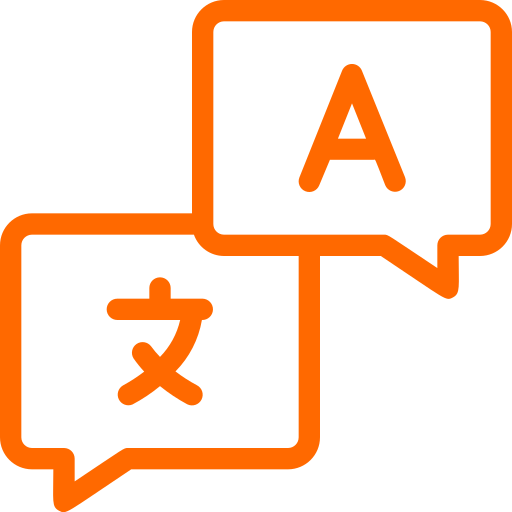
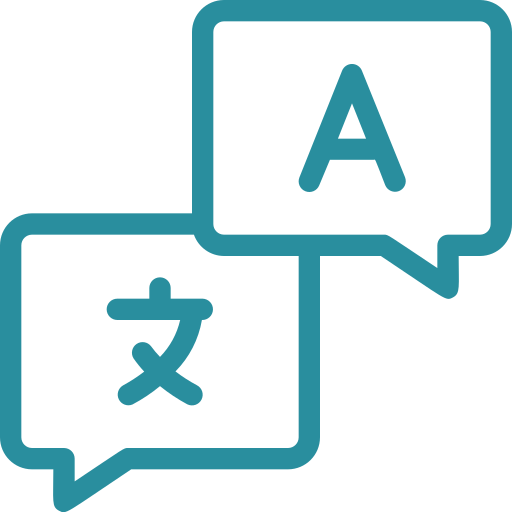
change color pallet

Changed region(s): [[0.0, 0.0, 1.0, 1.0], [0.1875, 0.5312, 0.4375, 0.8125], [0.5625, 0.125, 0.8125, 0.375]]

diff --git a/src/layouts/Hero.jsx b/src/layouts/Hero.jsx
@@ -1,20 +1,20 @@
 import { motion } from "framer-motion";
 import Button from "../components/Button";
-import heroImage from "../assets/hero.jpeg";
+import myImage from "../assets/my-photo.jpeg";
 import { ChevronDown } from "lucide-react"; // Ícone de seta
 
 const Hero = ({ onContatoClick }) => {
   return (
     <section
       id="hero"
-      className="bg-gradient-to-br from-orange-100 to-white flex flex-col justify-center px-6 md:px-12 relative"
+      className="bg-[var(--light-bg)] flex flex-col justify-center px-6 md:px-12 relative"
       style={{ minHeight: "calc(100vh - 80px)" }}
     >
       <motion.div
         className="max-w-7xl mx-auto flex flex-col md:flex-row items-center gap-12 py-12"
         initial={{ opacity: 0, y: 40 }}
         animate={{ opacity: 1, y: 0 }}
-        transition={{ duration: 0.8, ease: "easeOut" }}
+        transition={{ duration: 2, ease: "easeOut" }}
       >
         {/* Imagem */}
         <motion.div
@@ -25,7 +25,7 @@ const Hero = ({ onContatoClick }) => {
           viewport={{ once: true }}
         >
           <img
-            src={heroImage}
+            src={myImage}
             alt="Tradução e suporte no Japão"
             className="rounded-2xl shadow-md object-cover w-full max-w-md h-auto"
             style={{ maxHeight: "450px" }}
@@ -34,23 +34,23 @@ const Hero = ({ onContatoClick }) => {
 
         {/* Texto */}
         <motion.div
-          className="w-full md:w-1/2 text-gray-800"
+          className="w-full md:w-1/2"
           initial={{ opacity: 0, x: 30 }}
           whileInView={{ opacity: 1, x: 0 }}
           transition={{ duration: 0.6 }}
           viewport={{ once: true }}
         >
-            <h1 className="text-4xl md:text-5xl font-bold mb-6 leading-tight">
+            <h1 className="text-4xl text-gray-800 md:text-5xl font-bold mb-6 leading-tight">
             Quebre a barreira do idioma no Japão
             </h1>
 
             <p className="text-lg md:text-xl text-gray-700 mb-6 leading-relaxed">
-            Olá! Me chamo <strong className="text-orange-600">Lucas Catuyama</strong> e ofereço tradução profissional e acompanhamento presencial para brasileiros que vivem no Japão. 
+            Olá! Me chamo <strong className="text-yellow-600">Lucas Catuyama</strong> e ofereço tradução profissional e acompanhamento presencial para brasileiros que vivem no Japão. 
             Conte com apoio em hospitais, prefeituras e qualquer situação em que a comunicação clara seja essencial.
             </p>
 
-            <p className="text-md md:text-lg text-gray-600 mb-8">
-            Atendimento humano, rápido e com empatia. A primeira ligação é <strong className="text-green-600">gratuita</strong> e sem compromisso.
+            <p className="text-lg md:text-xl text-gray-700 mb-6">
+            Atendimento humano, rápido e com empatia. A primeira ligação é <strong className="text-[var(--text-dark-blue)]">gratuita</strong> e sem compromisso.
             </p>
           <Button onClick={onContatoClick}>Fale comigo agora</Button>
         </motion.div>
@@ -58,7 +58,7 @@ const Hero = ({ onContatoClick }) => {
 
       {/* Scroll cue - seta animada */}
       <motion.div
-        className="absolute bottom-4 left-1/2 transform -translate-x-1/2 text-orange-400 cursor-pointer"
+        className="absolute bottom-4 left-1/2 transform -translate-x-1/2 text-[var(--button-blue)] cursor-pointer"
         animate={{ y: [0, 10, 0] }}
         transition={{ duration: 1.5, repeat: Infinity }}
         onClick={() => {

diff --git a/src/layouts/Header.jsx b/src/layouts/Header.jsx
@@ -25,19 +25,19 @@ const Header = ({ onContatoClick }) => {
 
   return (
     <header
-      className={`fixed top-0 left-0 w-full bg-white shadow-md z-50 transition-transform duration-300 ${
+      className={`fixed top-0 left-0 w-full bg-[var(--light-bg)] z-50 transition-transform duration-300 ${
         showHeader ? 'translate-y-0' : '-translate-y-full'
       }`}
     >
       <div className="max-w-7xl mx-auto px-4 py-4 flex flex-col gap-4 sm:flex-row sm:items-center sm:justify-between">
         {/* Logo e botão do menu */}
         <div className="flex items-center justify-between">
-          <h1 className="text-2xl font-bold text-gray-800">
+          <h1 className="text-2xl font-bold text-gray-700">
             Tradução em Izumo
           </h1>
     
           <button
-            className="sm:hidden text-gray-800 text-3xl focus:outline-none"
+            className="sm:hidden text-gray-700 text-3xl focus:outline-none"
             onClick={() => setMenuOpen(!menuOpen)}
           >
             ☰
@@ -50,19 +50,19 @@ const Header = ({ onContatoClick }) => {
             menuOpen ? 'flex' : 'hidden'
           } flex-col sm:flex sm:flex-row sm:items-center sm:space-x-6`}
         >
-          <a href="#hero" className="text-gray-600 hover:text-orange-500 transition-colors">
+          <a href="#hero" className="text-gray-700 hover:text-[var(--button-blue)] transition-colors">
             Início
           </a>
-          <a href="#services" className="text-gray-600 hover:text-orange-500 transition-colors">
+          <a href="#services" className="text-gray-700 hover:text-[var(--button-blue)] transition-colors">
             Serviços
           </a>
-          <a href="#about" className="text-gray-600 hover:text-orange-500 transition-colors">
+          <a href="#about" className="text-gray-700 hover:text-[var(--button-blue)] transition-colors">
             Sobre mim
           </a>
-          <a href="#testimonial" className="text-gray-600 hover:text-orange-500 transition-colors">
+          <a href="#testimonial" className="text-gray-700 hover:text-[var(--button-blue)] transition-colors">
             Depoimentos
           </a>
-          <a href="#price" className="text-gray-600 hover:text-orange-500 transition-colors">
+          <a href="#price" className="text-gray-700 hover:text-[var(--button-blue)] transition-colors">
             Preços
           </a>
           <Button onClick={onContatoClick}>Entre em contato</Button>

diff --git a/src/layouts/Reason.jsx b/src/layouts/Reason.jsx
@@ -3,32 +3,32 @@ import { BadgeCheck, Languages, School, BookOpen, Code, Heart } from "lucide-rea
 
 const motivos = [
   {
-    icon: <Languages className="w-8 h-8 text-orange-400" />,
+    icon: <Languages className="w-8 h-8 text-[var(--button-blue)]" />,
     title: "Fluência em Japonês",
     description: "Certificação JLPT N1 e domínio completo do idioma.",
   },
   {
-    icon: <School className="w-8 h-8 text-orange-400" />,
+    icon: <School className="w-8 h-8 text-[var(--button-blue)]" />,
     title: "Vivência no Japão",
     description: "Fui alfabetizado e estudei no Japão, com conhecimento cultural profundo.",
   },
   {
-    icon: <BookOpen className="w-8 h-8 text-orange-400" />,
+    icon: <BookOpen className="w-8 h-8 text-[var(--button-blue)]" />,
     title: "Formação Acadêmica",
     description: "Graduado em Administração e cursando Engenharia de Software.",
   },
   {
-    icon: <BadgeCheck className="w-8 h-8 text-orange-400" />,
+    icon: <BadgeCheck className="w-8 h-8 text-[var(--button-blue)]" />,
     title: "Experiência como Professor",
     description: "Já atuei como professor de japonês com foco em clareza e didática.",
   },
   {
-    icon: <Code className="w-8 h-8 text-orange-400" />,
+    icon: <Code className="w-8 h-8 text-[var(--button-blue)]" />,
     title: "Tradutor com visão técnica",
     description: "Experiência em tradução com sensibilidade linguística e precisão.",
   },
   {
-    icon: <Heart className="w-8 h-8 text-orange-400" />,
+    icon: <Heart className="w-8 h-8 text-[var(--button-blue)]" />,
     title: "Atendimento Humanizado",
     description: "Empatia, paciência e compromisso em cada atendimento, pensando no bem-estar do cliente.",
   },
@@ -51,7 +51,7 @@ const Reason = () => {
           {motivos.map((item, index) => (
             <motion.div
               key={index}
-              className="bg-gray-50 p-6 rounded-2xl shadow hover:shadow-lg transition duration-300"
+              className="bg-[var(--light-bg)] p-6 rounded-2xl shadow hover:shadow-lg transition duration-300"
               initial={{ opacity: 0, y: 40 }}
               whileInView={{ opacity: 1, y: 0 }}
               transition={{ duration: 0.4, delay: index * 0.1 }}

diff --git a/src/layouts/About.jsx b/src/layouts/About.jsx
@@ -3,22 +3,22 @@ import { BookOpen, GraduationCap, Languages, Briefcase } from "lucide-react";
 
 const steps = [
   {
-    icon: <Languages className="w-6 h-6 text-orange-400" />,
+    icon: <Languages className="w-6 h-6 text-white" />,
     title: "Alfabetização no Japão",
     text: "Estudei e fui alfabetizado no Japão, vivenciando a cultura e o idioma desde cedo.",
   },
   {
-    icon: <GraduationCap className="w-6 h-6 text-orange-400" />,
+    icon: <GraduationCap className="w-6 h-6 text-white" />,
     title: "Formação Acadêmica",
     text: "Sou graduado em Administração e atualmente curso Engenharia de Software no Brasil.",
   },
   {
-    icon: <BookOpen className="w-6 h-6 text-orange-400" />,
+    icon: <BookOpen className="w-6 h-6 text-white" />,
     title: "JLPT N1",
     text: "Alcancei a certificação máxima do japonês (N1), comprovando domínio avançado da língua.",
   },
   {
-    icon: <Briefcase className="w-6 h-6 text-orange-400" />,
+    icon: <Briefcase className="w-6 h-6 text-white" />,
     title: "Experiência Profissional",
     text: "Atuei como professor de japonês e também com tradução em diversos contextos.",
   },
@@ -26,7 +26,7 @@ const steps = [
 
 const About = () => {
   return (
-    <section id="about" className="bg-white py-16 px-6 md:px-12">
+    <section id="about" className="bg-[var(--light-bg)] py-16 px-6 md:px-12">
       <div className="max-w-4xl mx-auto">
         <motion.h2
           className="text-4xl font-bold mb-12 text-center text-gray-700"
@@ -48,7 +48,7 @@ const About = () => {
               transition={{ duration: 0.4, delay: index * 0.2 }}
               viewport={{ once: true }}
             >
-              <div className="bg-orange-100 p-3 rounded-full shadow">
+              <div className="bg-[var(--button-blue)] p-3 rounded-full shadow">
                 {step.icon}
               </div>
               <div>

diff --git a/src/layouts/Cta.jsx b/src/layouts/Cta.jsx
@@ -23,9 +23,9 @@ const pulseAnimation = {
 
 const Cta = ({ onContatoClick }) => {
   return (
-    <section className="relative bg-gradient-to-br from-orange-100 via-yellow-50 to-white py-24 px-6 md:px-12 overflow-hidden">
+    <section className="relative bg-[var(--light-bg)] py-24 px-6 md:px-10 overflow-hidden">
       <motion.div
-        className="relative z-10 max-w-3xl mx-auto text-center"
+        className="relative z-10 max-w-4xl mx-auto text-center"
         initial="hidden"
         whileInView="visible"
         viewport={{ once: true }}
@@ -35,19 +35,19 @@ const Cta = ({ onContatoClick }) => {
           variants={fadeIn}
           custom={0}
         >
-          Tradução humana, empática e eficiente.
+          Tradução humana, empática e eficiente
         </motion.h2>
 
         <motion.p
-          className="text-lg md:text-xl text-gray-600 mb-4"
+          className="text-lg md:text-xl text-gray-700 mb-4"
           variants={fadeIn}
           custom={1}
         >
-          Tenha apoio profissional em qualquer situação no Japão. Conte com um atendimento acolhedor, ágil e totalmente em português.
+          Tenha apoio profissional em qualquer situação no Japão.<br></br> Conte com um atendimento acolhedor, ágil e totalmente em português.
         </motion.p>
 
         <motion.p
-          className="text-md text-gray-500 mb-10"
+          className="text-md text-gray-600 mb-10"
           variants={fadeIn}
           custom={2}
         >

diff --git a/src/layouts/Service.jsx b/src/layouts/Service.jsx
@@ -3,17 +3,17 @@ import { Stethoscope, FileText, Landmark } from 'lucide-react';
 
 const services = [
   {
-    icon: <Stethoscope className="w-8 h-8 text-orange-400" />,
+    icon: <Stethoscope className="w-8 h-8 text-[var(--button-blue)]" />,
     title: 'Acompanhamento ao médico',
     description: 'Tradução e apoio durante consultas, exames e atendimentos hospitalares.',
   },
   {
-    icon: <Landmark className="w-8 h-8 text-orange-400" />,
+    icon: <Landmark className="w-8 h-8 text-[var(--button-blue)]" />,
     title: 'Acompanhamento a órgãos públicos',
     description: 'Apoio em prefeitura, imigração, correios e outros serviços públicos.',
   },
   {
-    icon: <FileText className="w-8 h-8 text-orange-400" />,
+    icon: <FileText className="w-8 h-8 text-[var(--button-blue)]" />,
     title: 'Tradução de documentos',
     description: 'Tradução de certificados, contratos, formulários e documentos oficiais.',
   },
@@ -37,7 +37,7 @@ const Service = () => {
           {services.map((service, index) => (
             <motion.div
               key={index}
-              className="bg-gray-50 p-6 rounded-2xl shadow hover:shadow-md transition duration-300"
+              className="bg-[var(--light-bg)] p-6 rounded-2xl shadow hover:shadow-md transition duration-300"
               initial={{ opacity: 0, y: 40 }}
               whileInView={{ opacity: 1, y: 0 }}
               transition={{ duration: 0.4, delay: index * 0.1 }}

diff --git a/src/layouts/Price.jsx b/src/layouts/Price.jsx
@@ -2,8 +2,8 @@ import { motion } from 'framer-motion';
 
 const Price = () => {
   return (
-    <section id="price" className="bg-gray-50 py-16 px-6 md:px-12">
-      <div className="max-w-3xl mx-auto text-center">
+    <section id="price" className="bg-white py-16 px-6 md:px-12">
+      <div className="max-w-3xl mx-auto text-center ">
         <motion.h2
           className="text-4xl font-bold mb-10 text-gray-700"
           initial={{ opacity: 0, y: -20 }}
@@ -22,13 +22,13 @@ const Price = () => {
           viewport={{ once: true }}
         >
           <p>
-            <strong className="text-orange-400 text-xl">¥3000</strong> pela primeira hora
+            <strong className="text-gray-700 text-xl">¥3000</strong> pela primeira hora
           </p>
           <p>
-            <strong className="text-orange-400 text-xl">¥1000</strong> por hora adicional
+            <strong className="text-gray-700 text-xl">¥1000</strong> por hora adicional
           </p>
           <p className="text-gray-600">
-            A ligação para agendamento é <strong className="text-green-600">gratuita</strong> e sem compromisso.
+            A ligação para agendamento é <strong className="text-yellow-600">gratuita</strong>
           </p>
         </motion.div>
       </div>

diff --git a/src/components/TestimonialCard.jsx b/src/components/TestimonialCard.jsx
@@ -1,9 +1,9 @@
-import quotes from '../assets/quotes.png'; 
+import quotes from '../assets/quote-yellow.png'; 
 
 const TestimonialCard = ({ data }) => {
   return (
-    <div className="bg-white rounded-2xl p-6 shadow-md max-w-sm">
-      <img src={quotes} alt="quote icon" className="w-6 h-6 mb-4 text-orange-400" />
+    <div className="bg-[var(--light-bg)] rounded-2xl p-6 shadow-md max-w-sm">
+      <img src={quotes} alt="quote icon" className="w-6 h-6 mb-4 text-[var(--text-yellow)]" />
 
       <h3 className="text-xl font-bold mb-2">{data.quote}</h3>
 
@@ -12,7 +12,7 @@ const TestimonialCard = ({ data }) => {
       <div className="border-t pt-4 flex justify-between items-center">
         <div>
           {Array.from({ length: 5 }).map((_, i) => (
-            <span key={i} className={i < data.rating ? 'text-orange-400' : 'text-gray-300'}>
+            <span key={i} className={i < data.rating ? 'text-yellow-600' : 'text-gray-300'}>
               ★
             </span>
           ))}

diff --git a/src/layouts/Testimonials.jsx b/src/layouts/Testimonials.jsx
@@ -4,10 +4,10 @@ import { motion } from 'framer-motion';
 
 export default function Testimonials() {
   return (
-    <section id='testimonial' className="bg-gray-50 py-16">
+    <section id='testimonial' className="bg-[var(--dark-bg)] py-16">
       <div className=" mx-auto px-6 md:px-12">
         <motion.h2
-          className="text-4xl font-bold text-center text-gray-800 mb-12"
+          className="text-4xl font-bold text-center text-gray-200 mb-12"
           initial={{ opacity: 0, y: -20 }}
           whileInView={{ opacity: 1, y: 0 }}
           transition={{ duration: 0.6 }}

diff --git a/src/layouts/Footer.jsx b/src/layouts/Footer.jsx
@@ -1,6 +1,6 @@
 const Footer = () => {
     return (
-        <footer className="flex flex-col items-center justify-center p-4 sm:flex-row">
+        <footer className="flex flex-col items-center justify-center p-4 bg-[var(--light-bg)] text-gray-700/70 sm:flex-row">
             <p>© 2025 <span className="font-semibold">Tradução em Izumo.</span></p>
             <p>Todos os direitos reservados</p>
         </footer>

diff --git a/src/components/Button.jsx b/src/components/Button.jsx
@@ -1,7 +1,7 @@
 const Button = ({ children, onClick }) => {
     return (
       <button
-        className="bg-orange-400 text-white px-4 py-2 rounded hover:bg-orange-600 cursor-pointer"
+        className="bg-[var(--button-blue)] text-white px-4 py-2 rounded hover:opacity-80 cursor-pointer"
         onClick={onClick}
       >
         {children}

diff --git a/src/App.jsx b/src/App.jsx
@@ -35,8 +35,9 @@ const App = () => {
       <Reason></Reason>
       <Testimonials></Testimonials>
       <Price></Price>
-      <Cta></Cta>
+      <Cta onContatoClick={redirectWhatsapp}></Cta>
       <Footer></Footer>
+      
     </>
   );
 };
